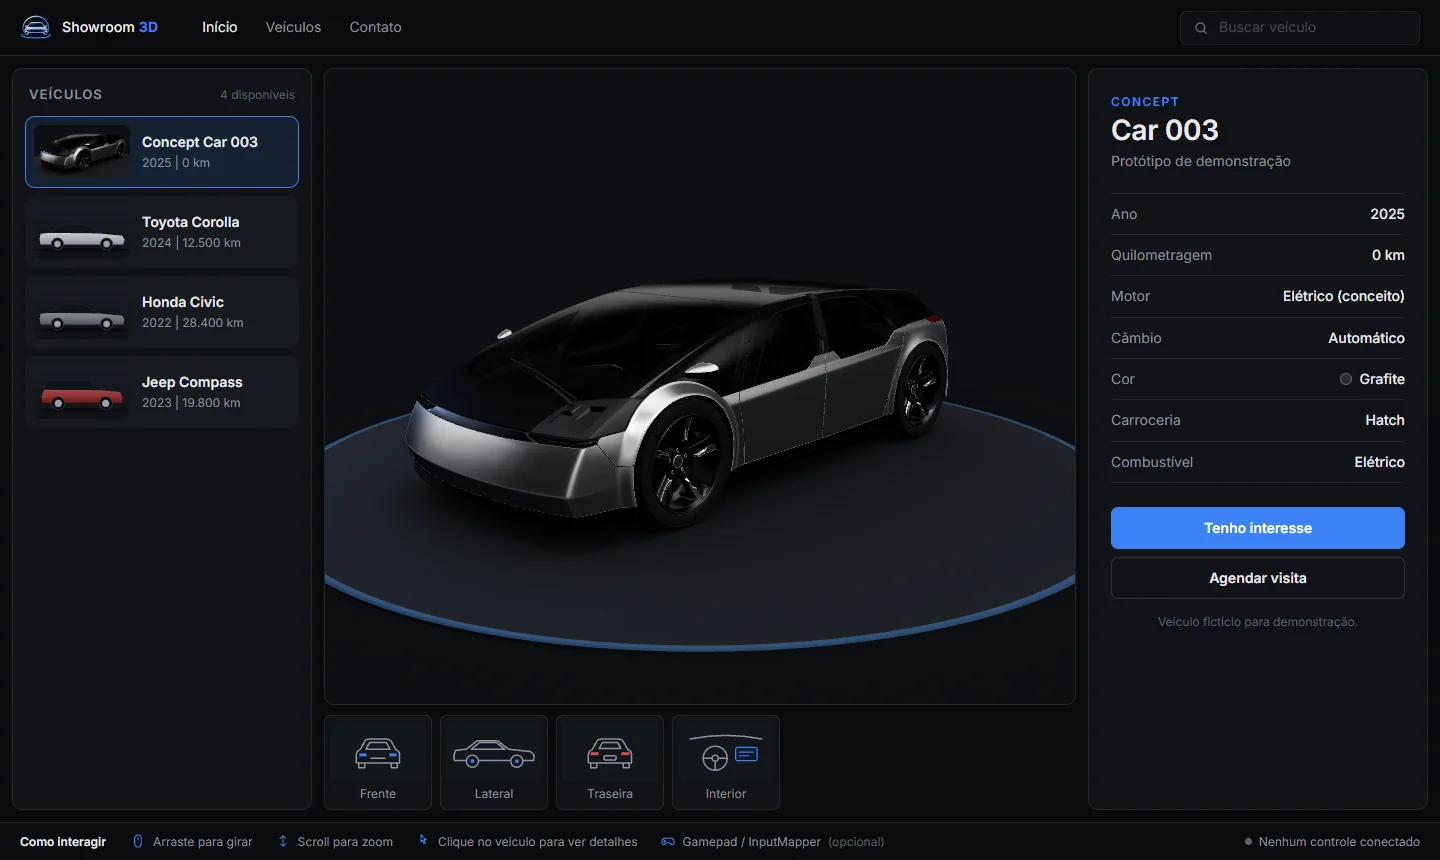
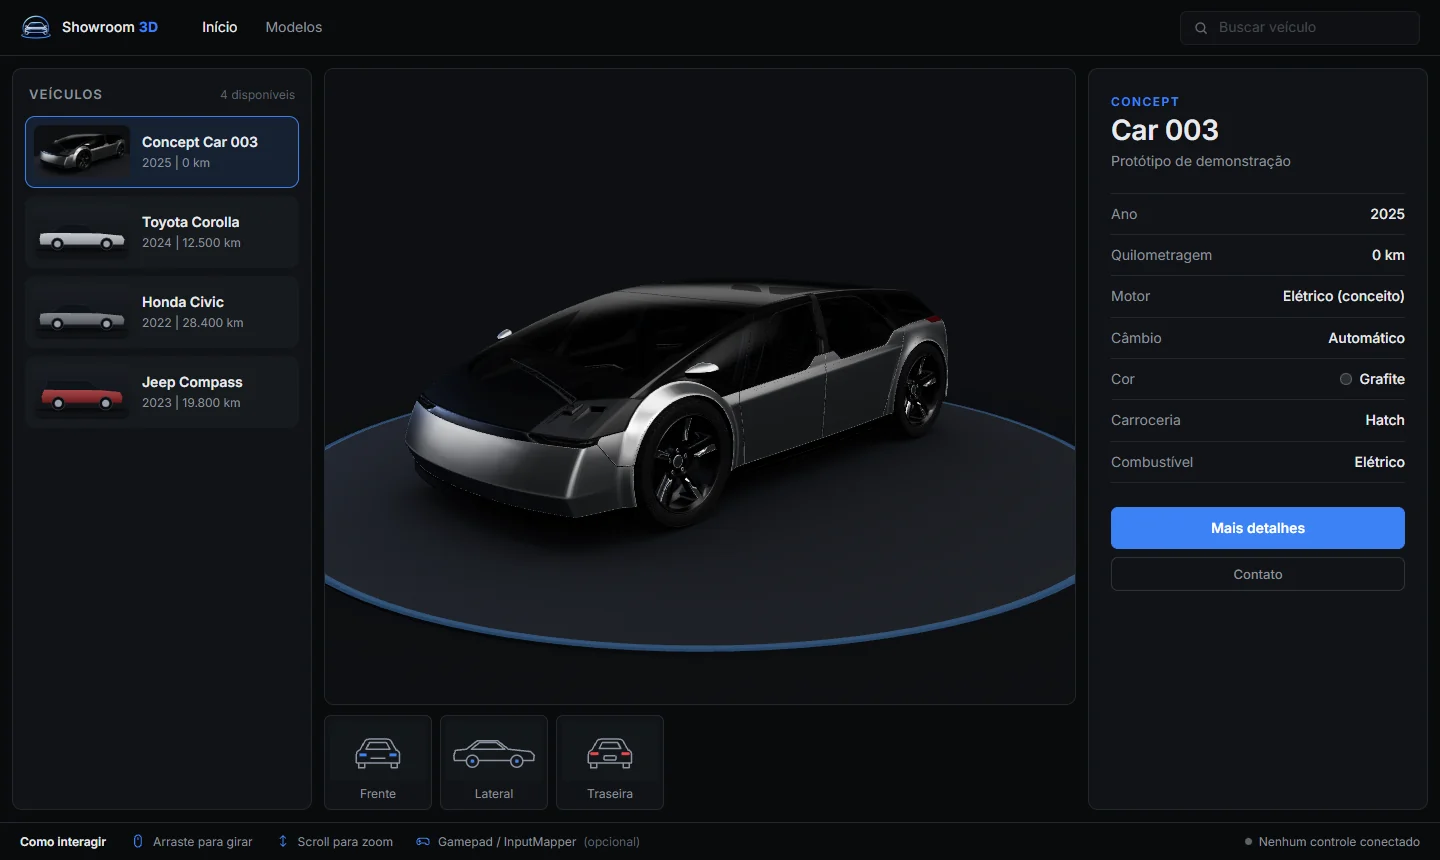
Ajustes de interface, docs numerados e print atualizado
- Botões "Mais detalhes" e "Contato" (menor); menu "Início · Modelos"
- Remove a vista Interior, a nota de veículo fictício e a dica de clique
- Indicador do controle: bolinha verde + "Conectado"
- docs numerados (01-architecture, 02-3d-models-guide, 03-roadmap);
  blender-export.md incorporado ao guia; links para o novo nome do repo
- Print da interface atualizado no README

diff --git a/index.html b/index.html
@@ -27,8 +27,7 @@
       </a>
       <nav class="topnav" aria-label="Principal">
         <a href="#" class="is-active">Início</a>
-        <a href="#catalog">Veículos</a>
-        <a href="#contact">Contato</a>
+        <a href="#catalog">Modelos</a>
       </nav>
       <label class="search" title="Busca disponível em uma próxima versão">
         <svg viewBox="0 0 24 24" aria-hidden="true"><circle cx="11" cy="11" r="6.5" /><path d="m16 16 4 4" /></svg>
@@ -100,11 +99,10 @@
 
           <dl class="specs" data-field="specs"></dl>
 
-          <div class="actions" id="contact">
-            <button type="button" class="btn btn--primary" data-action="interest">Tenho interesse</button>
-            <button type="button" class="btn btn--ghost" data-action="visit">Agendar visita</button>
+          <div class="actions">
+            <button type="button" class="btn btn--primary" data-action="details">Mais detalhes</button>
+            <button type="button" class="btn btn--ghost" data-action="contact">Contato</button>
           </div>
-          <p class="info__note">Veículo fictício para demonstração.</p>
         </div>
       </aside>
     </main>
@@ -119,10 +117,6 @@
         <li>
           <svg viewBox="0 0 24 24" aria-hidden="true"><path d="M12 4v16M8 8l4-4 4 4M8 16l4 4 4-4" /></svg>
           <span class="only-pointer">Scroll para zoom</span><span class="only-touch">Pinça para zoom</span>
-        </li>
-        <li>
-          <svg viewBox="0 0 24 24" aria-hidden="true"><path d="M9 3v10l2.5-2 2 5 2-1-2-5H17z" /></svg>
-          <span class="only-pointer">Clique no veículo para ver detalhes</span><span class="only-touch">Toque no veículo para ver detalhes</span>
         </li>
         <li>
           <svg viewBox="0 0 24 24" aria-hidden="true"><path d="M7 8h10a4 4 0 0 1 4 4v3a2.5 2.5 0 0 1-4.4 1.6L15 15H9l-1.6 1.6A2.5 2.5 0 0 1 3 15v-3a4 4 0 0 1 4-4z" /><path d="M7 11v3M5.5 12.5h3" /></svg>

diff --git a/js/app.js b/js/app.js
@@ -16,10 +16,9 @@ import { createVehicleInfo } from './ui/vehicle-info.js';
 import { VehicleViewer } from './viewer/vehicle-viewer.js';
 
 const ACTION_MESSAGES = {
-  interest: 'Demonstração: o contato com a loja será habilitado em uma próxima versão.',
-  visit: 'Demonstração: o agendamento de visitas será habilitado em uma próxima versão.',
+  details: 'Demonstração: mais detalhes do veículo serão exibidos em uma próxima versão.',
+  contact: 'Demonstração: o contato com a loja será habilitado em uma próxima versão.',
 };
-const VIEW_UNAVAILABLE_MESSAGE = 'A vista interior será habilitada em uma próxima versão.';
 
 const byId = (id) => document.getElementById(id);
 
@@ -59,13 +58,7 @@ async function main() {
     onAction: (action) => showToast(ACTION_MESSAGES[action] ?? 'Função disponível em breve.'),
   });
   const viewer = createViewer({ onVehicleClick: () => info.highlight() });
-  const gallery = createGallery(byId('gallery'), {
-    onSelect: (view) => {
-      if (viewer.setView(view)) return true;
-      showToast(VIEW_UNAVAILABLE_MESSAGE);
-      return false;
-    },
-  });
+  const gallery = createGallery(byId('gallery'), { onSelect: (view) => viewer.setView(view) });
   const catalog = createCatalog(byId('vehicle-list'), byId('catalog-count'), { onSelect: selectVehicle });
 
   viewer.bindInput(input);

diff --git a/css/main.css b/css/main.css
@@ -513,21 +513,20 @@ svg {
 }
 
 .btn--ghost {
+  height: 34px;
   border: 1px solid var(--border-strong);
   background: transparent;
+  font-size: 13px;
+  font-weight: 500;
+  color: var(--text-muted);
 }
 
 .btn--ghost:hover {
   border-color: var(--text-faint);
   background: var(--surface-2);
+  color: var(--text);
 }
 
-.info__note {
-  margin-top: 14px;
-  font-size: 12px;
-  color: var(--text-faint);
-  text-align: center;
-}
 
 /* ---------- Barra "Como interagir" ---------- */
 
@@ -606,8 +605,13 @@ svg {
   background: var(--text-faint);
 }
 
+.gamepad-status[data-state='connected'] {
+  color: var(--text);
+}
+
 .gamepad-status[data-state='connected']::before {
   background: #3fb950;
+  box-shadow: 0 0 0 3px rgba(63, 185, 80, 0.2);
 }
 
 .gamepad-status[data-state='unsupported'] {

diff --git a/js/ui/gamepad-status.js b/js/ui/gamepad-status.js
@@ -1,10 +1,11 @@
-/** Indicador de controle na barra inferior. */
+/** Indicador de controle na barra inferior: bolinha verde + "Conectado" quando há um controle. */
 export function renderGamepadStatus(el, { supported, connected, name }) {
   el.dataset.state = !supported ? 'unsupported' : connected ? 'connected' : 'idle';
   el.textContent = !supported
     ? 'Gamepad indisponível neste navegador'
     : connected
-      ? `Controle conectado${name ? ` · ${name}` : ''}`
+      ? 'Conectado'
       : 'Nenhum controle conectado';
-  el.title = el.textContent;
+  // O nome do controle (ex.: "Xbox 360 Controller (XInput STANDARD GAMEPAD)") fica na dica ao passar o mouse.
+  el.title = connected && name ? `Controle conectado: ${name}` : el.textContent;
 }

diff --git a/js/ui/gallery.js b/js/ui/gallery.js
@@ -1,7 +1,6 @@
 /**
- * Miniaturas de vistas (frente, lateral, traseira, interior) abaixo do visualizador.
- * Ao clicar, avisa `onSelect(view)`; a vista só fica marcada se `onSelect` retornar true
- * (ex.: "interior" ainda não tem câmera própria).
+ * Miniaturas de vistas (frente, lateral, traseira) abaixo do visualizador.
+ * Ao clicar, avisa `onSelect(view)`; a vista só fica marcada se `onSelect` retornar true.
  */
 export function createGallery(containerEl, { onSelect = () => true } = {}) {
   let buttons = [];

diff --git a/README.md b/README.md
@@ -6,8 +6,8 @@
 
 **Showroom automotivo 3D para a web: explore, gire e aproxime veículos direto no navegador.**
 
-[![Live Demo](https://img.shields.io/badge/Live_Demo-Abrir_showroom-3b82f6?style=for-the-badge&logo=githubpages&logoColor=white&labelColor=0d1117)](https://lianeheidemann.github.io/showroom-3d/)
-[![Deploy](https://img.shields.io/badge/Deploy-GitHub_Actions-2088FF?style=for-the-badge&logo=githubactions&logoColor=white&labelColor=0d1117)](https://github.com/lianeheidemann/showroom-3d/actions/workflows/pages.yml)
+[![Live Demo](https://img.shields.io/badge/Live_Demo-Abrir_showroom-3b82f6?style=for-the-badge&logo=githubpages&logoColor=white&labelColor=0d1117)](https://lianeheidemann.github.io/vehicle-3d-showroom/)
+[![Deploy](https://img.shields.io/badge/Deploy-GitHub_Actions-2088FF?style=for-the-badge&logo=githubactions&logoColor=white&labelColor=0d1117)](https://github.com/lianeheidemann/vehicle-3d-showroom/actions/workflows/pages.yml)
 [![License](https://img.shields.io/badge/License-MIT-3fb950?style=for-the-badge&logo=opensourceinitiative&logoColor=white&labelColor=0d1117)](LICENSE)
 
 ![HTML5](https://img.shields.io/badge/HTML5-161b22?style=for-the-badge&logo=html5&logoColor=E34F26)
@@ -37,14 +37,14 @@ Catálogo de veículos com visualizador 3D interativo: o cliente escolhe um carr
 ## Executar
 
 ```bash
-git clone https://github.com/lianeheidemann/showroom-3d.git
-cd showroom-3d
+git clone https://github.com/lianeheidemann/vehicle-3d-showroom.git
+cd vehicle-3d-showroom
 python -m http.server 8000
 ```
 
 Acesse **http://localhost:8000**. Não abra o `index.html` direto pelo arquivo (`file://`), porque o navegador bloqueia o carregamento do catálogo.
 
-O deploy é automático: cada push na `main` publica no [GitHub Pages](https://lianeheidemann.github.io/showroom-3d/).
+O deploy é automático: cada push na `main` publica no [GitHub Pages](https://lianeheidemann.github.io/vehicle-3d-showroom/).
 
 ## Controles
 
@@ -74,10 +74,9 @@ js/
 
 | Documento | Conteúdo |
 |---|---|
-| [Arquitetura](docs/architecture.md) | Módulos, dependências e decisões técnicas |
-| [Guia de modelos 3D](docs/3d-models-guide.md) | Como tratar, salvar e publicar modelos no Blender |
-| [Exportação Blender](docs/blender-export.md) | Opções da exportação GLB |
-| [Roadmap](docs/future-implementations.md) | Próximas fases |
+| [Arquitetura](docs/01-architecture.md) | Módulos, dependências e decisões técnicas |
+| [Guia de modelos 3D](docs/02-3d-models-guide.md) | Como tratar, salvar e publicar modelos no Blender |
+| [Roadmap](docs/03-roadmap.md) | Próximas fases |
 
 ## Créditos e licença
 

diff --git a/docs/03-roadmap.md b/docs/03-roadmap.md
@@ -1,8 +1,8 @@
 # Próximas implementações
 
-Evoluções planejadas, organizadas por fase. Nada disto faz parte do MVP.
+Evoluções planejadas, organizadas por fase.
 
-**Base já existente no MVP:** catálogo via JSON, viewer A-Frame com carga sob demanda e descarte de modelos, Input Manager (`rotate` / `zoom` / `select`), raycasting no modelo e leitura inicial da Gamepad API.
+**Já implementado (Fase 1 e partes das fases 6 e 8):** catálogo via JSON; viewer A-Frame com carga sob demanda, descarte de modelos, enquadramento automático (inclusive para modelos com peças soltas) e iluminação de estúdio; vistas Frente / Lateral / Traseira; Input Manager (`rotate` / `zoom` / `select`) com mouse, touch, teclado e gamepad (analógico, setas e gatilhos, via InputMapper); raycasting no modelo; indicador de controle conectado.
 
 ---
 
@@ -62,7 +62,7 @@ Seletor de cor (Branco, Preto, Prata, Azul, Vermelho) trocando o material da car
 | Y | Resetar câmera |
 | X | Alternar exterior/interior |
 
-Indicador "🎮 Controle conectado", mostrando o nome (ex.: *Xbox Controller*, *InputMapper (Xbox 360 Controller emulado)*) quando a Gamepad API informar. O MVP já mostra um status simples na barra inferior.
+*Já implementado:* indicador na barra inferior com bolinha verde e "Conectado" quando um controle é detectado. O nome informado pela Gamepad API (ex.: *Xbox 360 Controller* emulado pelo InputMapper) aparece ao passar o mouse. *Falta:* ícone de controle e exibir o nome diretamente.
 
 ## Fase 9: Busca e filtros
 
@@ -88,11 +88,11 @@ URLs diretas por veículo:
 
 ## Fase 13: Contato
 
-Integrar "Tenho interesse" com WhatsApp, formulário, e-mail ou CRM.
+Integrar o botão **Contato** (hoje só exibe um aviso de demonstração) com WhatsApp, formulário, e-mail ou CRM.
 
 ## Fase 14: Agendamento
 
-"Agendar visita" com data, horário, veículo, nome, telefone e e-mail. Requer backend ou serviço externo.
+Agendamento de visita (por exemplo, a partir do botão **Contato**) com data, horário, veículo, nome, telefone e e-mail. Requer backend ou serviço externo.
 
 ## Fase 15: Painel administrativo
 

diff --git a/assets/models/README.md b/assets/models/README.md
@@ -2,8 +2,9 @@
 
 Coloque aqui os arquivos `.glb` exportados do Blender, com os nomes usados em `data/vehicles.json`:
 
-- `corolla.glb`
-- `civic.glb`
-- `compass.glb`
+| Arquivo | Situação |
+|---|---|
+| `concept-car-003.glb` | Modelo real (Sketchfab, CC0) |
+| `corolla.glb`, `civic.glb`, `compass.glb` | Ainda não existem: o site exibe um carro provisório |
 
-Enquanto um arquivo não existir, o site exibe um carro provisório. Veja [docs/blender-export.md](../../docs/blender-export.md).
+Enquanto um arquivo não existir, o site exibe um carro provisório no lugar. Veja o [guia de modelos 3D](../../docs/02-3d-models-guide.md).
